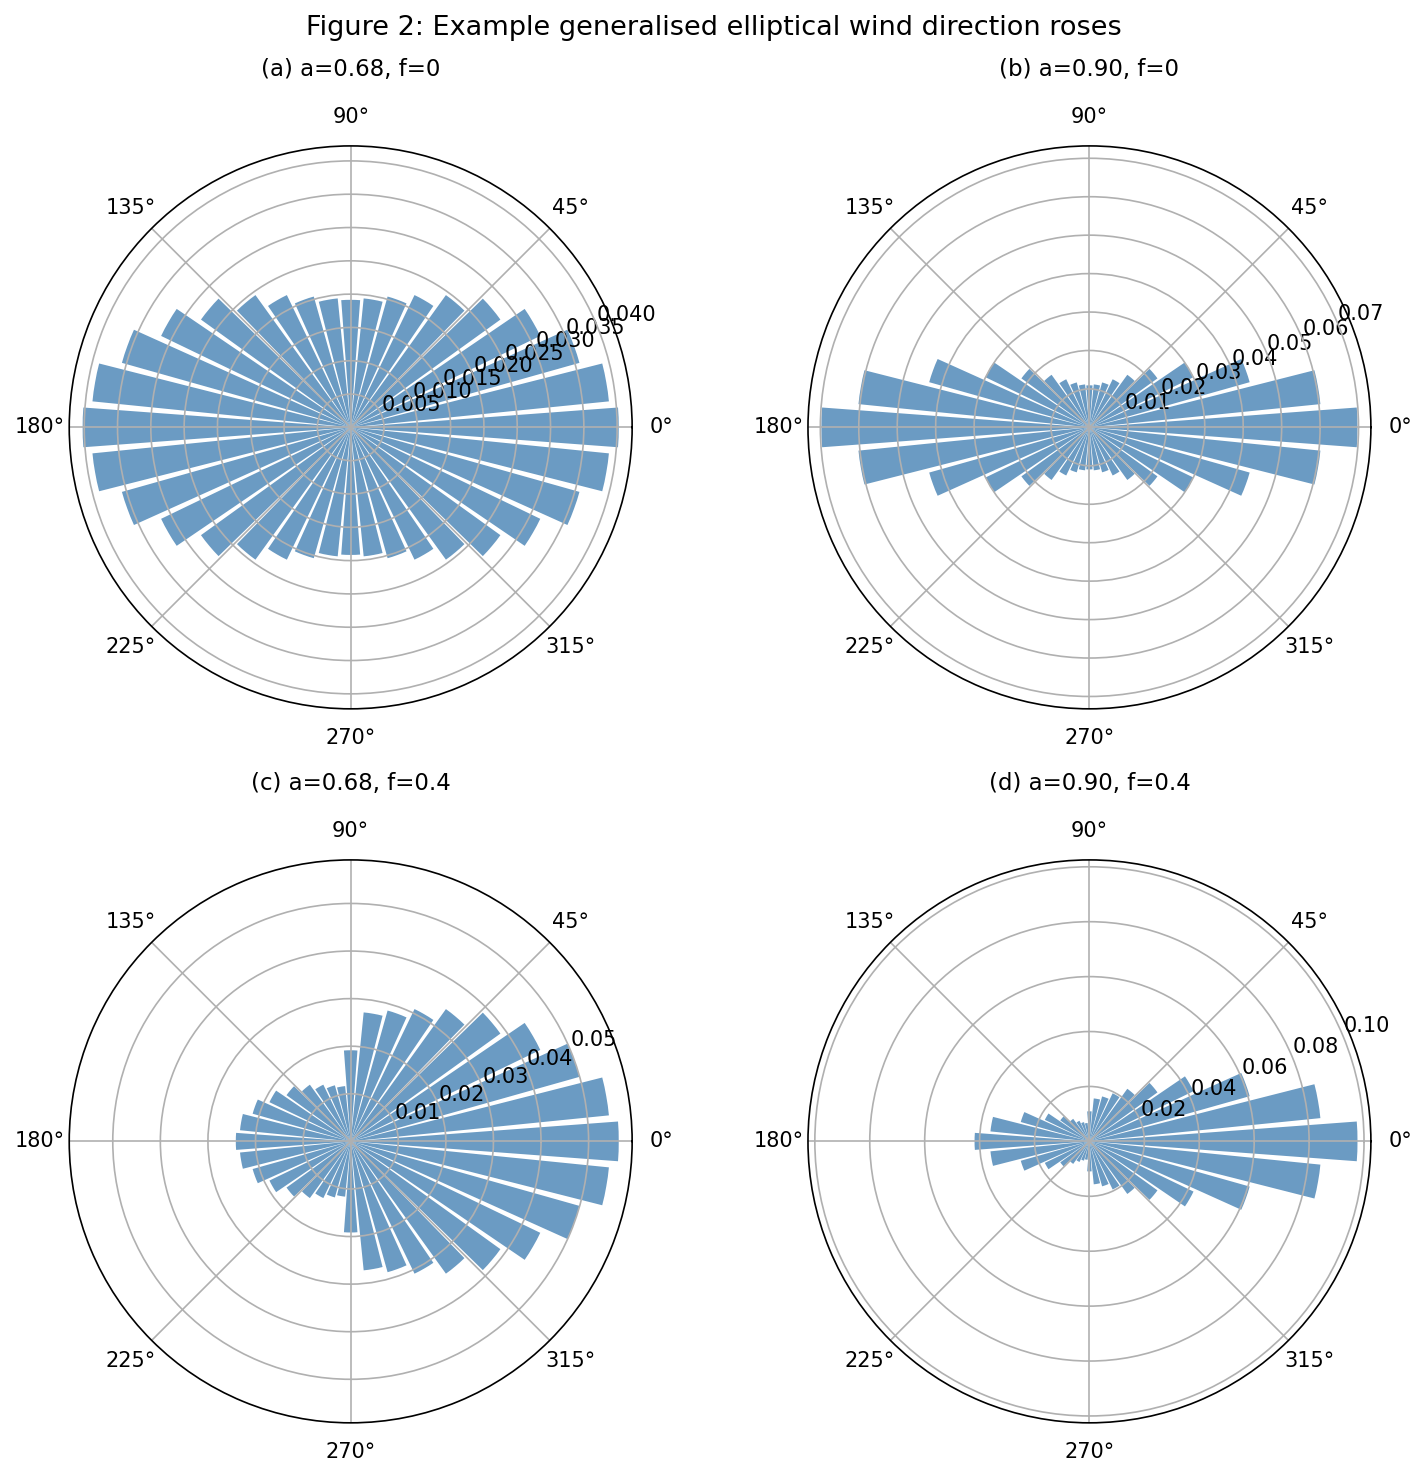
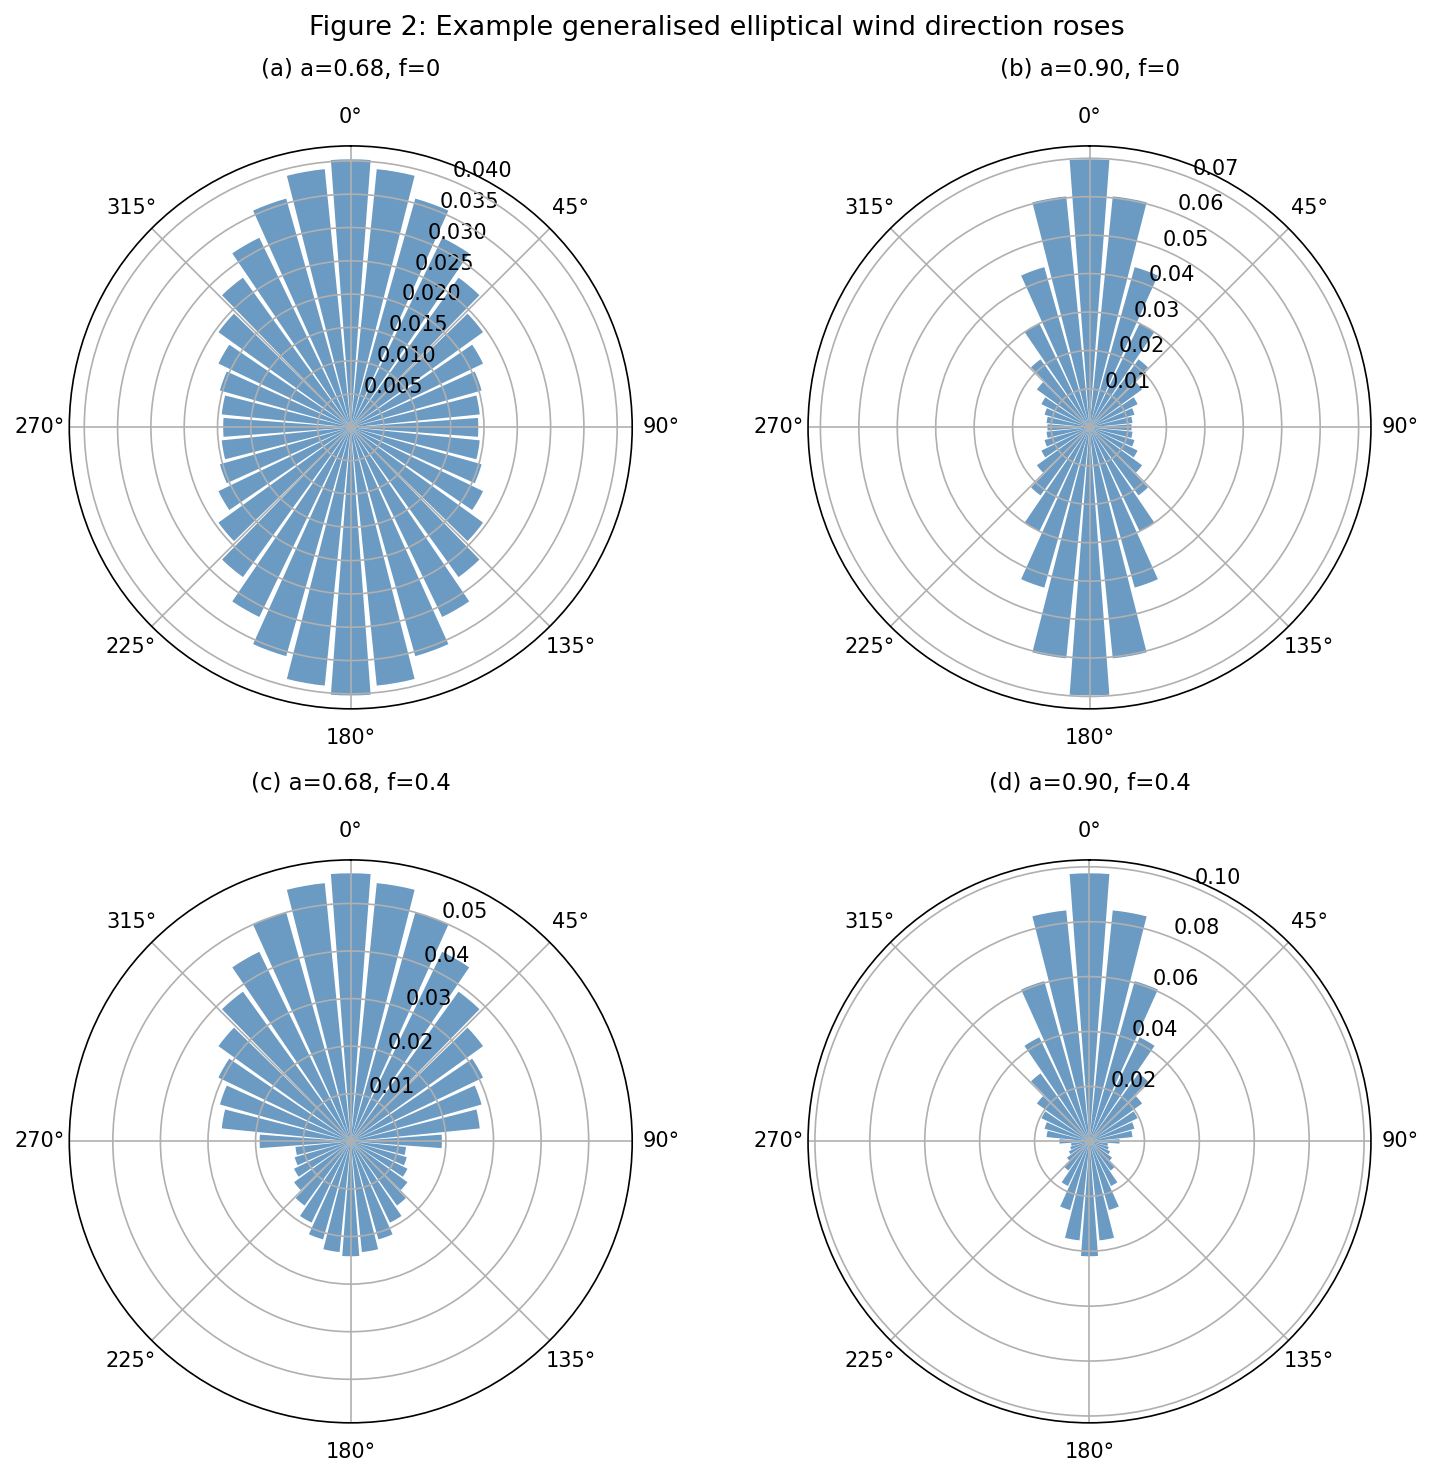
Use North-up clockwise azimuth convention in paper figures
paper_figures.py never set the polar axis convention, so the committed
figure PNGs used matplotlib's default (0 deg at East, counterclockwise),
contradicting the library plot() methods and the meteorological
convention used elsewhere in the repo.

- Set theta zero location to North and direction to clockwise in both
  figure2() and figure4(), matching model.py plot() methods.
- Regenerate figure2.png and figure4.png.
- Update README captions: with theta_prev=0 probability concentrates
  along N-S, not E-W.
- Document the azimuth convention (left-hand rule) in the README
  parameter table.

diff --git a/examples/paper_figures.py b/examples/paper_figures.py
@@ -35,6 +35,10 @@ def figure2():
 
         ax.bar(wd_rad, wr.sector_frequencies, width=width * 0.85,
                color="steelblue", alpha=0.8)
+        # Meteorological convention: North at 0 deg, azimuth increasing
+        # clockwise (left-hand rule).
+        ax.set_theta_zero_location("N")
+        ax.set_theta_direction(-1)
         ax.set_title(case["label"], fontsize=11, pad=15)
 
     fig.suptitle("Figure 2: Example generalised elliptical wind direction roses",
@@ -62,6 +66,10 @@ def figure4():
 
     ax.bar(wd_rad, mix.sector_frequencies, width=width * 0.85,
            color="steelblue", alpha=0.8)
+    # Meteorological convention: North at 0 deg, azimuth increasing
+    # clockwise (left-hand rule).
+    ax.set_theta_zero_location("N")
+    ax.set_theta_direction(-1)
     ax.set_title(
         "Figure 4: Mixture model (tri-modal)\n"
         "$(a_1, f_1, \\theta_1)=(0.8, 0.1, 180°)$, w=0.85\n"

diff --git a/README.md b/README.md
@@ -8,7 +8,7 @@ The model parameterises a wind direction rose using ellipse geometry with just t
 |-----------|-------------|
 | `a` | Ellipse shape. `a = 1/sqrt(pi) ≈ 0.564` gives a uniform (circular) distribution. Larger values concentrate probability along the prevailing axis. |
 | `f` | Folding parameter in [0, 1]. `f = 0` gives a symmetric (bi-directional) rose; `f > 0` shifts probability toward the prevailing direction. |
-| `theta_prev` | Prevailing wind direction in degrees. |
+| `theta_prev` | Prevailing wind direction in degrees, meteorological convention: North = 0°, azimuth increasing clockwise (left-hand rule) so East = 90°, South = 180°, West = 270°. |
 
 ## Installation
 
@@ -89,10 +89,10 @@ The four panels below show the effect of the shape parameter `a` and folding par
 
 ![Figure 2](examples/figure2.png)
 
-- **(a)** `a=0.68, f=0` -- Moderate bi-directional concentration along E-W
-- **(b)** `a=0.90, f=0` -- Stronger bi-directional concentration along E-W
-- **(c)** `a=0.68, f=0.4` -- Mild folding toward the prevailing direction (E)
-- **(d)** `a=0.90, f=0.4` -- Strong uni-directional concentration toward E
+- **(a)** `a=0.68, f=0` -- Moderate bi-directional concentration along N-S
+- **(b)** `a=0.90, f=0` -- Stronger bi-directional concentration along N-S
+- **(c)** `a=0.68, f=0.4` -- Mild folding toward the prevailing direction (N)
+- **(d)** `a=0.90, f=0.4` -- Strong uni-directional concentration toward N
 
 ## Mixture model (Figure 4 from the paper)
 
